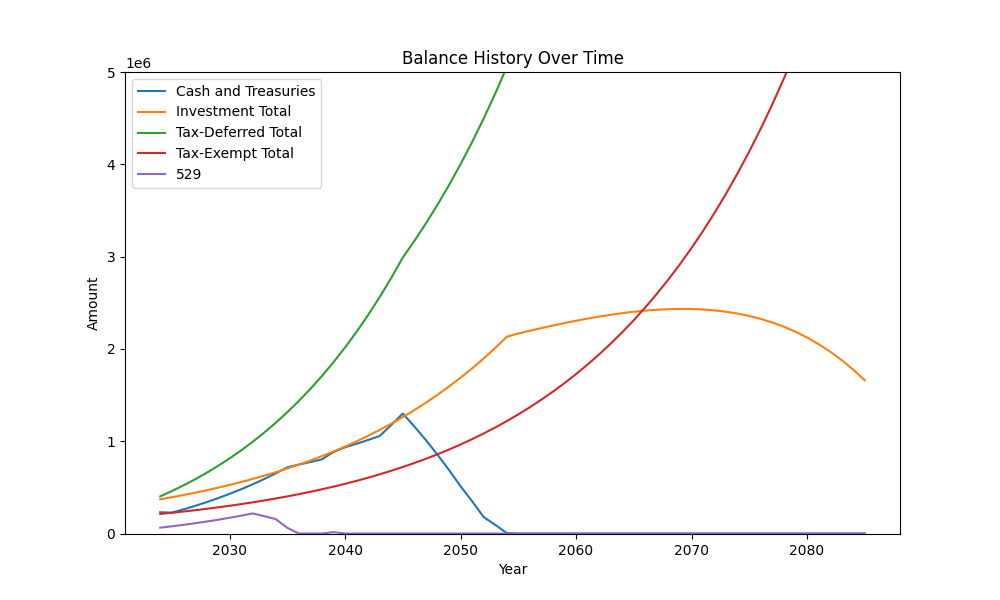
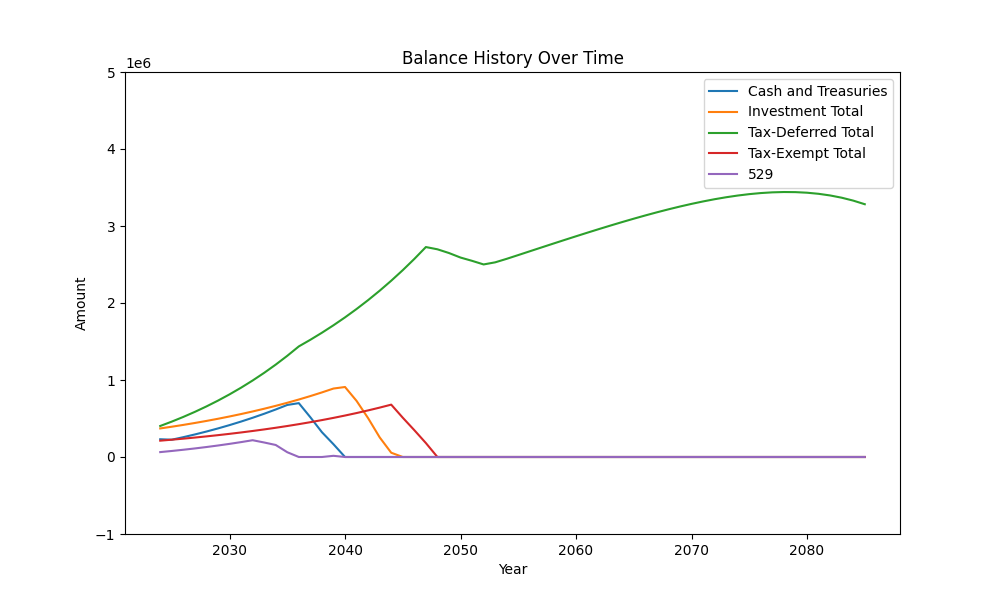
fixed some tax issues

diff --git a/simulate.py b/simulate.py
@@ -46,9 +46,14 @@ print(df_expenditure)
 df_balance_history = pd.DataFrame()
 df_expenditure_history = pd.DataFrame()
 df_college_cost_history = pd.DataFrame()
+df_taxes = pd.DataFrame()
 
-# Withdraw penalty
+# taxes
 withdraw_penalty = 0
+cap_gains = 0
+interest = 0
+cost_basis = df_accounts[df_accounts['type'] == 'Investment']['basis'].values[0]
+income_from_retirement_accounts = 0
 
 # Simulate the growth of the accounts year by year until simulation_end_date
 while year <= simulation_end_date:
@@ -67,13 +72,36 @@ while year <= simulation_end_date:
     #print('tdt_contribution:', tdt_contribution)
 
     # Calculate the estimated federal and state taxes
-    estimated_federal_taxes = estimate_federal_taxes(gross_income + withdraw_penalty, year, inflation_rate, num_children)
-    estimated_state_taxes = estimate_state_taxes(gross_income + withdraw_penalty, 0.0495)
+    estimated_federal_taxes = estimate_federal_taxes(gross_income + income_from_retirement_accounts + withdraw_penalty + interest, year, inflation_rate, num_children) + (cap_gains * 0.15)
+    estimated_state_taxes = estimate_state_taxes(gross_income + income_from_retirement_accounts + withdraw_penalty + interest + cap_gains, 0.0495)
 
     # Subtract the estimated taxes from the gross income
     net_income = gross_income - estimated_federal_taxes - estimated_state_taxes - df_expenditure.loc[df_expenditure['name'] == 'pre-tax expenses', 'annual_cost'].values[0] - tdt_contribution
 
-    # Add 'Rent' from df_income to net_income
+    #store income and taxes
+    new_row = pd.DataFrame({
+        'gross_income': [gross_income],
+        'net_income': [net_income],
+        'federal_taxes': [estimated_federal_taxes],
+        'state_taxes': [estimated_state_taxes],
+        'income_from_retirement_accounts': [income_from_retirement_accounts],
+        'withdraw_penalty': [withdraw_penalty],
+        'cap_gains': [cap_gains],
+        'interest': [interest],
+        'cost_basis': [cost_basis],
+        'tdt_contribution': [tdt_contribution],
+        'year': [year]
+    })
+    df_taxes = pd.concat([df_taxes, new_row], ignore_index=True)
+
+    #taxes paid, reset for next year
+    withdraw_penalty = 0
+    cap_gains = 0
+    interest = 0
+    income_from_retirement_accounts = 0
+
+
+    # Add 'Rent' from df_income to net_income, generally depreciation will take care of this in terms of taxes
     rent = df_income.loc[df_income['name'] == 'Rent', 'income'].values[0]
     net_income += rent
 
@@ -173,40 +201,57 @@ while year <= simulation_end_date:
         account_tax_deferred_index = df_accounts[df_accounts['type'] == 'Tax-Deferred'].index[0]
 
         shortage = 0
+
         # Take money from the investment account
         if df_accounts.loc[cash_index, 'amount'] < 0:
-            shortage = abs(df_accounts.loc[cash_index, 'amount'])
-            df_accounts.loc[cash_index, 'amount'] = 0
+            shortage = abs(df_accounts.loc[cash_index, 'amount']) #how much are we short
+            df_accounts.loc[cash_index, 'amount'] = 0 #set the cash account to 0
+
             if shortage > df_accounts.loc[account_investment_index, 'amount']: #if there isn't enough in the investment account
-                df_accounts.loc[account_investment_index, 'amount'] = 0
-                shortage -= df_accounts.loc[account_investment_index, 'amount']
-                if shortage > df_accounts.loc[account_tax_exempt_index, 'amount']: #if there isn't enough in the tax-exempt account
-                    df_accounts.loc[account_tax_exempt_index, 'amount'] = 0
-                    shortage -= df_accounts.loc[account_tax_exempt_index, 'amount']
-                    if df_family['age'].max() < 59.5:
-                        withdraw_penalty += df_accounts.loc[account_tax_exempt_index, 'amount'] * 0.1
-                    if shortage > df_accounts.loc[account_tax_deferred_index, 'amount']:
+                
+                cap_gains = df_accounts.loc[account_investment_index, 'amount'] - cost_basis #cap gains is then just the amount of the investment account minus the cost basis
+                cost_basis = 0 #cost basis is now 0 cause investment account is zero 
+                
+                df_accounts.loc[account_investment_index, 'amount'] = 0 #empty the investment account
+                shortage -= df_accounts.loc[account_investment_index, 'amount'] #this is how much we still need
+
+                if shortage > df_accounts.loc[account_tax_exempt_index, 'amount']: #if there isn't enough in the tax-exempt account either
+                    df_accounts.loc[account_tax_exempt_index, 'amount'] = 0 #empty the tax-exempt account
+                    shortage -= df_accounts.loc[account_tax_exempt_index, 'amount'] #this is how much we still need
+                    if df_family['age'].max() < 59.5: #if the oldest family member is younger than 59.5, then there is a 10% penalty
+                        withdraw_penalty = df_accounts.loc[account_tax_exempt_index, 'amount'] * 0.1
+                    
+                    if shortage > df_accounts.loc[account_tax_deferred_index, 'amount']: #if there isn't enough in the tax-deferred account either
                         print("Not enough funds to cover the shortage. You are fucked.")
-                    else:
+                        if df_accounts.loc[account_tax_deferred_index, 'amount'] > 0: #spend what you got left
+                            income_from_retirement_accounts = df_accounts.loc[account_tax_deferred_index, 'amount']
                         df_accounts.loc[account_tax_deferred_index, 'amount'] -= shortage
+                    else:
+                        income_from_retirement_accounts = shortage
                         if df_family['age'].max() < 59.5:
-                            withdraw_penalty += shortage * 1.1
-                        shortage = 0
+                            withdraw_penalty = shortage * 0.1
+                        df_accounts.loc[account_tax_deferred_index, 'amount'] -= shortage
+
                 else:
                     #if oldest family member is younger than 59.5, then there is a 10% penalty
                     if df_family['age'].max() < 59.5:
-                        withdraw_penalty += shortage * 0.1
+                        withdraw_penalty = shortage * 0.1
                     df_accounts.loc[account_tax_exempt_index, 'amount'] -= shortage
-                    shortage = 0
-            else:
+            else: #there is enough in the investment account
+                cap_gains = shortage * (1 - cost_basis / df_accounts.loc[account_investment_index, 'amount'])
+                cost_basis *= (1 - shortage / df_accounts.loc[account_investment_index, 'amount'])
+                print("Cap Gains", cap_gains)
+                print("Cost Basis", cost_basis)
                 df_accounts.loc[account_investment_index, 'amount'] -= shortage
-                shortage = 0
 
 
 
     #INFLATION ADJUSTMENTS FOR ALL VALUES
     # Update the accounts
     for i in range(len(df_accounts)):
+        if df_accounts.loc[i, 'type'] == 'Cash':
+            #pay interest tax
+            interest = df_accounts.loc[i, 'amount'] * (df_accounts.loc[i, 'growth_rate']) #for taxes
         df_accounts.loc[i, 'amount'] = df_accounts.loc[i, 'amount'] * (1 + df_accounts.loc[i, 'growth_rate'])
 
     # Update the income
@@ -250,7 +295,7 @@ plt.ylabel('Amount')
 plt.title('Balance History Over Time')
 
 # Set y-axis limit
-plt.ylim(-5000, 5000000) #If we have more than $5,000,000, then we don't have to show it.
+plt.ylim(-1000000, 5000000) #If we have more than $5,000,000, then we don't have to show it.
 
 # Add a legend
 plt.legend()
@@ -272,14 +317,17 @@ df_college_cost_history_grouped = df_college_cost_history.groupby('year')['cost_
 df_college_cost_history_grouped.set_index('year', inplace=True)
 #print(df_college_cost_history_grouped)
 
-print(df_expenditure_history)
 df_expenditure_history = df_expenditure_history.pivot(index='year', columns='name', values='annual_cost')
-print(df_expenditure_history)
+#print(df_expenditure_history)
 
 # Merge the DataFrames
 df_merged = df_expenditure_history.merge(df_college_cost_history_grouped, left_index=True, right_index=True, how='outer')
 
+df_taxes.set_index('year', inplace=True)
+df_merged = df_merged.merge(df_taxes, left_index=True, right_index=True, how='outer')
+
+
 # Print the merged DataFrame
 df_merged = df_merged.fillna(0).applymap(lambda x: '${:,.2f}'.format(x) if x != 0 else '$0.00')
-print(df_merged)
+#print(df_merged)
 df_merged.to_csv(json_file + '_expense_history.csv')
